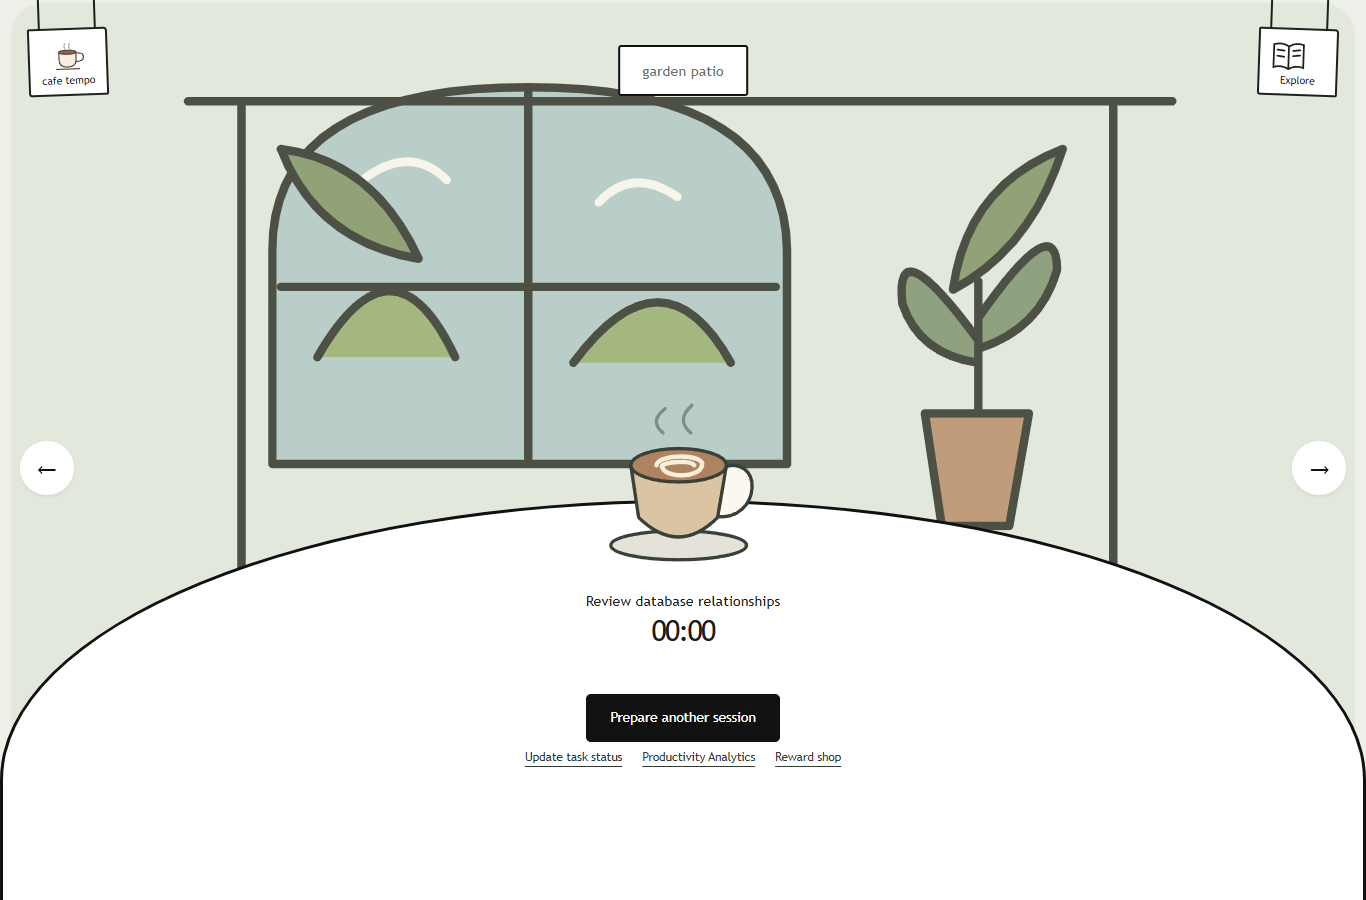
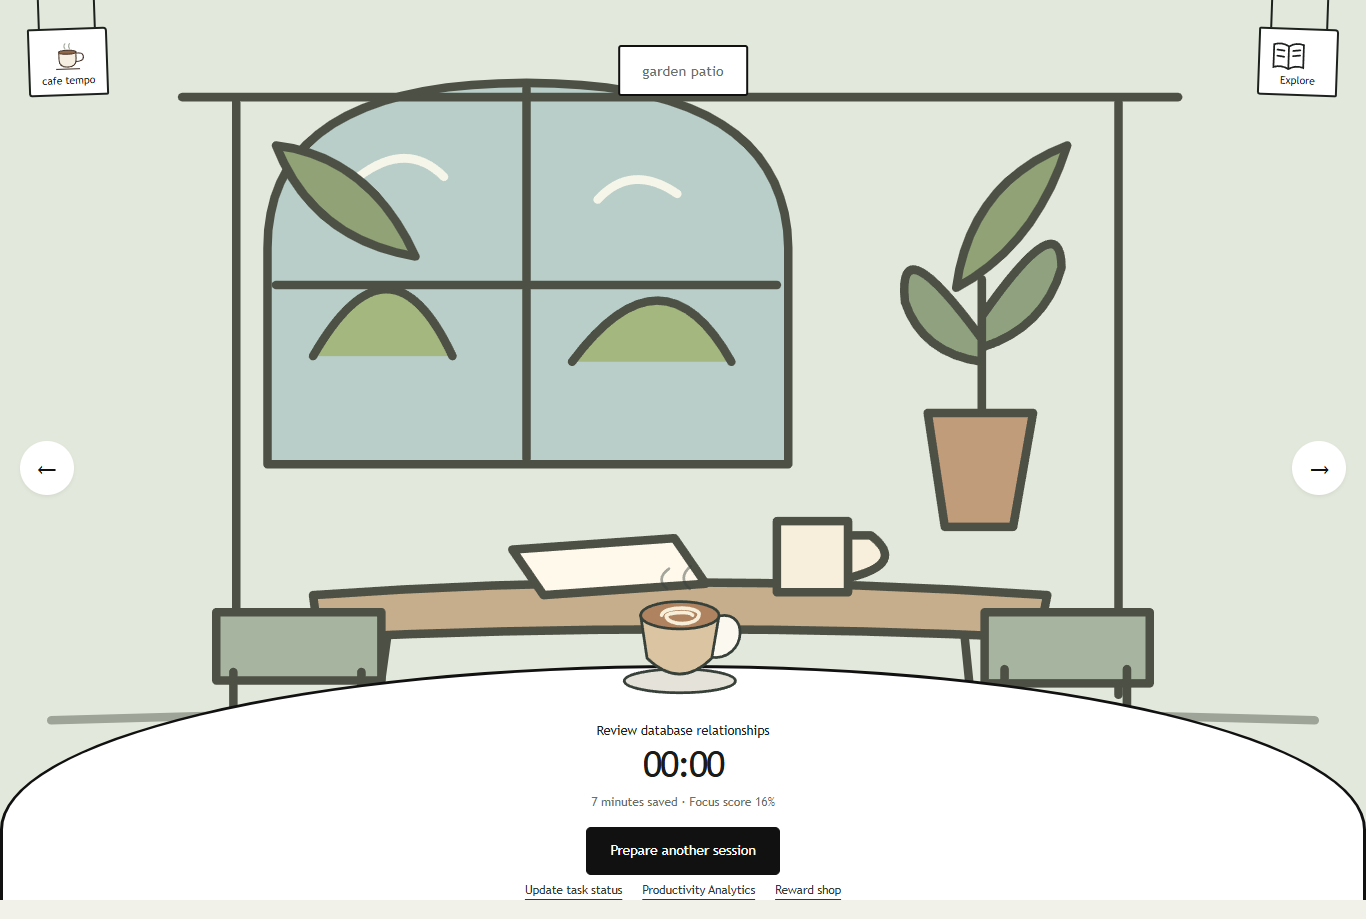
docs: refresh compact focus room screenshots
- Document the low table and session settings layout
- Refresh desktop and mobile focus and reward screenshots

diff --git a/docs/TEMPO_REWARDS.md b/docs/TEMPO_REWARDS.md
@@ -13,7 +13,7 @@ Task reopening and repeated completion cannot earn the same task award twice. Re
 
 1. Open Explore → Reward shop. Your balance and mission rules appear above the existing menu.
 2. Select items and review the order. The existing server prices and focus discount still apply. Place order is disabled when your balance is insufficient; the server also checks it.
-3. Paid items appear on the focus table, including after reload. The drink selected during session setup is decorative and does not unlock a break.
+3. Paid items appear as small clickable items on the focus table, including after reload. Their quantities are visible; credit balances and break rules are in Session settings. The drink selected during session setup is decorative and does not unlock a break.
 4. While focusing, click a purchased item to use one unit for a break of up to five minutes. There is no free Pause timer button.
 5. Resume timer can end the break early. The client and server check expiry; the server checks every five seconds even with the page closed. Music follows timer state.
 6. The break releases the seat. Automatic resume rechecks capacity. If the original area is full or unavailable, the timer stays paused while waiting for a seat. The user can browse another area and resume there.

diff --git a/docs/REDESIGN.md b/docs/REDESIGN.md
@@ -44,3 +44,7 @@ API calls remain in services/cafeApi.ts. Setup, session actions, and reservation
 SpaceIllustration and MenuArtwork are original vector placeholders. Replace these presentation components with images without changing the hooks or API contracts. See ASSET_BRIEF.md.
 
 The new flow extends the existing focus-session endpoints with planned/paused state, selected drink fields, persisted timer actions, and shared live-seat capacity checks. The recommendation formula and order discount remain available. Tempo Credits missions and purchased break rewards are implemented. Authentication and passport achievements remain unimplemented. See STUDY_FLOW.md.
+
+## Focus room spacing
+
+All five room scenes fill the viewport width using SVG cover scaling. The foreground table is 235 pixels tall on desktop and 255 pixels on mobile. Essential timer and seat controls remain visible; credits, sound, session details, and break explanations are in the keyboard-accessible Session settings dialog. Purchased rewards remain as small clickable table items. This keeps most of the viewport available for the cafe scene.
